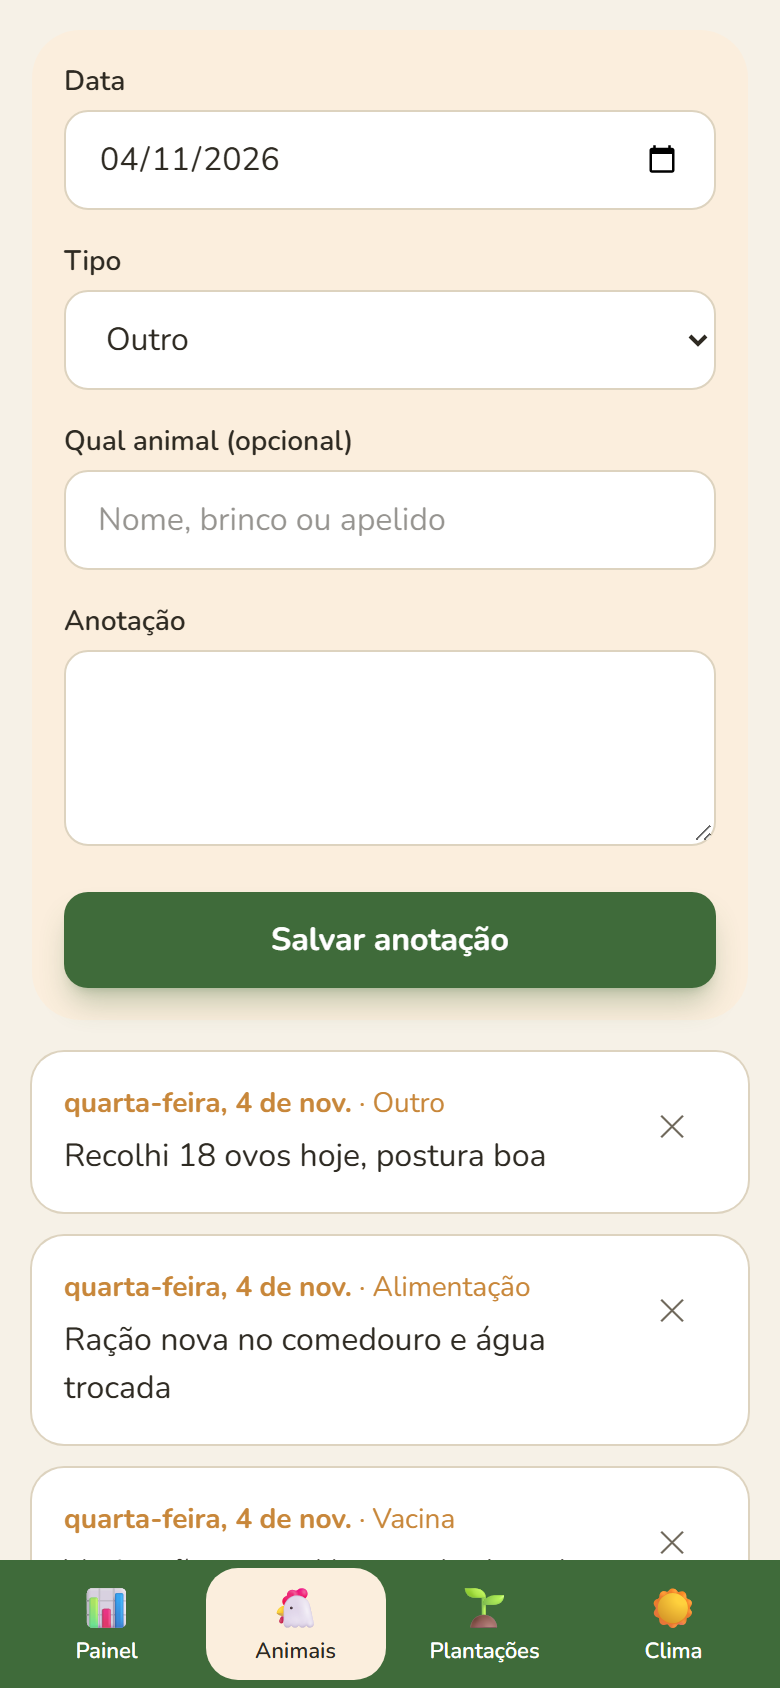
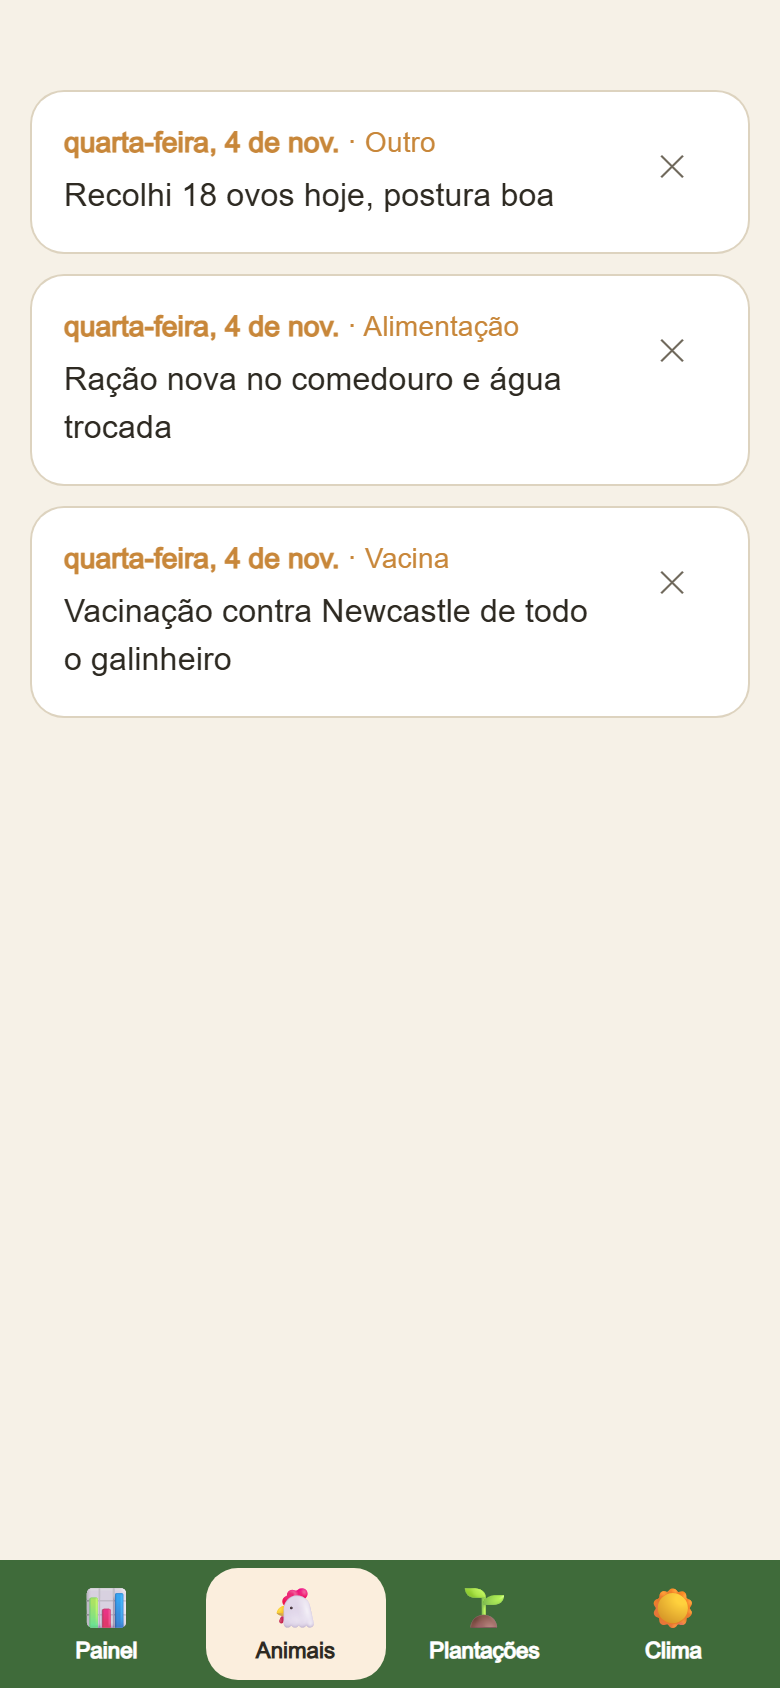
fix: landing com celular e navegador realistas, prints sem erro nem cartão cortado e notas do diário em inglês no EN

diff --git a/tests/screenshots/capture.spec.ts b/tests/screenshots/capture.spec.ts
@@ -1,4 +1,4 @@
-import { test, type Browser } from "@playwright/test";
+import { expect, test, type Browser, type Page } from "@playwright/test";
 import { createAccount, subscribeFake } from "../e2e/helpers";
 
 const cookie = (name: string, value: string) => ({ name, value, domain: "localhost", path: "/", expires: -1, httpOnly: false, secure: false, sameSite: "Lax" as const });
@@ -8,34 +8,69 @@ const DEVICES = {
   mobile: { viewport: { width: 390, height: 844 }, deviceScaleFactor: 2, isMobile: true, hasTouch: true },
 };
 
-// Fora dos prints: aviso de conexão, pedido de confirmar e-mail e o selo de erros do modo de desenvolvimento.
-const HIDE = "[data-testid=offline-status],[data-testid=verify-banner],nextjs-portal{display:none !important}";
+// Fora dos prints: aviso de conexão, pedido de confirmar e-mail (o selo do modo de desenvolvimento some com devIndicators: false).
+const HIDE = "[data-testid=offline-status],[data-testid=verify-banner]{display:none !important}";
 
-async function shoot(browser: Browser, state: Awaited<ReturnType<import("@playwright/test").BrowserContext["storageState"]>>, lang: "pt" | "en", device: keyof typeof DEVICES) {
+/** Qualquer erro de página ou do console derruba a execução: nada de erro escondido atrás dos prints. */
+function failOnErrors(page: Page, errors: string[]) {
+  page.on("pageerror", (e) => errors.push(`pageerror: ${e.message}`));
+  // "Failed to load resource" não diz qual; a resposta com status de erro diz (e o 404 do compilador do dev é refeito em gotoOk).
+  page.on("console", (m) => m.type() === "error" && !m.text().startsWith("Failed to load resource") && errors.push(`console: ${m.text()}`));
+  page.on("response", (r) => r.status() >= 400 && !r.request().isNavigationRequest() && errors.push(`${r.status()} ${r.url()}`));
+}
+
+/** O servidor de desenvolvimento às vezes responde 404 enquanto compila a rota; recarrega até a página de verdade aparecer. */
+async function gotoOk(page: Page, path: string) {
+  for (let i = 0; i < 4; i++) {
+    const res = await page.goto(path);
+    if (res?.status() === 200) return;
+    await page.waitForTimeout(3000);
+  }
+  throw new Error(`${path} não abriu`);
+}
+
+// A moldura do celular desenha a barra de status por cima; sem esse respiro o conteúdo ficaria sob a ilha.
+// A faixa fixa imita o fundo da barra de status (o conteúdo rolado some sob ela); os cartões do fim do Painel saem, para o print terminar inteiro acima da barra de baixo.
+const MOBILE_TOP = "body{padding-top:38px !important}body::before{content:'';position:fixed;top:0;left:0;right:0;height:38px;background:var(--bg);z-index:60}body::after{content:'';display:block;height:700px}[data-testid=season-tip],[data-testid=diary-recent]{display:none !important}";
+
+// Os 5 cartões do Clima não cabem inteiros acima da barra de baixo; um pouco menor, cabem.
+const WEATHER_FIT = "main{zoom:.82}";
+
+async function shoot(browser: Browser, errors: string[], state: Awaited<ReturnType<import("@playwright/test").BrowserContext["storageState"]>>, lang: "pt" | "en", device: keyof typeof DEVICES) {
   const cookies = [...state.cookies.filter((c) => c.name !== "nf_locale"), cookie("nf_locale", lang), cookie("nf_consent", "essential")];
   const ctx = await browser.newContext({ ...DEVICES[device], storageState: { cookies, origins: [] } });
   const page = await ctx.newPage();
+  failOnErrors(page, errors);
   const pages: [string, string][] = [["dashboard", "/dashboard"], ["animal", "/animals/chickens?tab=diary"], ["weather", "/weather"]];
   for (const [name, path] of pages) {
-    await page.goto(path);
-    await page.addStyleTag({ content: HIDE });
+    await gotoOk(page, path);
+    await page.addStyleTag({ content: HIDE + (device === "mobile" ? MOBILE_TOP : "") + (device === "mobile" && name === "weather" ? WEATHER_FIT : "") });
     await page.waitForLoadState("networkidle");
-    // No diário as anotações ficam abaixo do formulário: rola até elas, para o print mostrar o que foi escrito.
-    if (name === "animal") await page.getByTestId("diary-entry").first().evaluate((el) => { el.scrollIntoView({ block: "start" }); window.scrollBy(0, -90); });
-    await page.screenshot({ path: `public/screenshots/${lang}-${name}-${device}.png` });
+    // Rola até o que importa, para nenhum cartão sair cortado pela barra de baixo.
+    const focus = name === "animal" ? page.getByTestId("diary-entry").first() : device !== "mobile" ? null : name === "dashboard" ? page.getByTestId("animal-tile-chickens") : name === "weather" ? page.locator("h2").first() : null;
+    await focus?.evaluate((el, dy) => { el.scrollIntoView({ block: "start" }); window.scrollBy(0, dy); }, device === "mobile" ? -46 : -20);
+    await page.screenshot({ caret: "initial", path: `public/screenshots/${lang}-${name}-${device}.png` });
   }
   if (lang === "en" && device === "desktop") {
     await page.setViewportSize({ width: 1200, height: 630 });
-    await page.goto("/dashboard");
-    await page.addStyleTag({ content: HIDE });
+    await gotoOk(page, "/dashboard");
+    // Só o clima e os animais, inteiros: o resto do Painel sairia cortado nos 630 px.
+    await page.addStyleTag({ content: HIDE + "[data-testid=crop-chips],[data-testid=season-tip],[data-testid=diary-recent]{display:none !important}" });
     await page.waitForLoadState("networkidle");
-    await page.screenshot({ path: "src/app/opengraph-image.png" });
+    await page.screenshot({ caret: "initial", path: "src/app/opengraph-image.png" });
   }
   await ctx.close();
 }
 
-test("prints do sistema com a conta de demonstração", async ({ page, browser }) => {
-  await createAccount(page, "maria@exemplo.com", "Fundão", undefined, "Maria");
+type Notes = [string, string][];
+const NOTES: Record<"pt" | "en", Notes> = {
+  pt: [["Vacina", "Vacinação contra Newcastle de todo o galinheiro"], ["Alimentação", "Ração nova no comedouro e água trocada"], ["Outro", "Recolhi 18 ovos hoje, postura boa"]],
+  en: [["Vacina", "Newcastle vaccine for the whole coop"], ["Alimentação", "New feed in the trough and fresh water"], ["Outro", "Collected 18 eggs today, good laying"]],
+};
+
+/** Cria a conta de demonstração pela tela (em português, como os helpers) com as anotações no idioma pedido. */
+async function demoAccount(page: Page, email: string, notes: Notes) {
+  await createAccount(page, email, "Fundão", undefined, "Maria");
   for (const [label, id, n] of [["Galinhas", "chickens", "24"], ["Cabras", "goats", "6"], ["Vacas", "cows", "3"]]) {
     await page.getByLabel(label).check();
     await page.locator(`#count-${id}`).fill(n);
@@ -45,18 +80,26 @@ test("prints do sistema com a conta de demonstração", async ({ page, browser }
   await subscribeFake(page);
 
   await page.goto("/animals/chickens?tab=diary");
-  const notes: [string, string][] = [
-    ["Vacina", "Vacinação contra Newcastle de todo o galinheiro"],
-    ["Alimentação", "Ração nova no comedouro e água trocada"],
-    ["Outro", "Recolhi 18 ovos hoje, postura boa"],
-  ];
   for (const [i, [type, text]] of notes.entries()) {
     await page.getByLabel("Tipo").selectOption({ label: type });
     await page.getByLabel("Anotação", { exact: true }).fill(text);
     await page.getByRole("button", { name: "Salvar anotação" }).click();
     await page.getByTestId("diary-entry").nth(i).waitFor();
   }
+  return page.context().storageState();
+}
 
-  const state = await page.context().storageState();
-  for (const lang of ["pt", "en"] as const) for (const device of ["desktop", "mobile"] as const) await shoot(browser, state, lang, device);
+test("prints do sistema com a conta de demonstração", async ({ page, browser }) => {
+  const errors: string[] = [];
+  failOnErrors(page, errors);
+  // Uma conta por idioma, para as anotações do diário aparecerem no idioma do print.
+  const ptState = await demoAccount(page, "maria@exemplo.com", NOTES.pt);
+  await page.context().clearCookies();
+  await page.context().addCookies([cookie("nf_locale", "pt"), cookie("nf_consent", "essential")]);
+  const enState = await demoAccount(page, "maria.en@exemplo.com", NOTES.en);
+
+  for (const [lang, state] of [["pt", ptState], ["en", enState]] as const) {
+    for (const device of ["desktop", "mobile"] as const) await shoot(browser, errors, state, lang, device);
+  }
+  expect(errors, "erros no navegador durante os prints").toEqual([]);
 });

diff --git a/src/app/(marketing)/page.tsx b/src/app/(marketing)/page.tsx
@@ -5,6 +5,7 @@ import { headers } from "next/headers";
 import { redirect } from "next/navigation";
 import { getLocale, getTranslations } from "next-intl/server";
 import { BrowserFrame } from "@/components/BrowserFrame";
+import { FloatingCard, VerifiedSeal } from "@/components/DeviceExtras";
 import { PhoneFrame } from "@/components/PhoneFrame";
 import { ShowcaseToggle } from "@/components/ShowcaseToggle";
 import { resolveLocale } from "@/i18n/locales";
@@ -34,6 +35,7 @@ export default async function HomePage() {
   const currency = currencyForCountry((await headers()).get("x-vercel-ip-country"));
   const price = formatPrice(currency, locale);
   const img = (name: string, device: "desktop" | "mobile") => `/screenshots/${locale}-${name}-${device}.png`;
+  const card = (k: "weather" | "diary" | "count") => ({ icon: t(`cards.${k}.icon`), title: t(`cards.${k}.title`), text: t(`cards.${k}.text`) });
   const cta = (
     <Link href="/register" className={`${btn} bg-primary text-primary-text transition-opacity hover:opacity-90 motion-reduce:transition-none`}>
       {t("ctaPrice", { price })}
@@ -71,7 +73,7 @@ export default async function HomePage() {
       <section className="relative overflow-hidden px-5 py-12 md:px-8 md:py-20">
         <div aria-hidden className="absolute inset-0 bg-[url('/landscape.svg')] bg-cover bg-bottom dark:brightness-[.55]" />
         <div className="relative mx-auto grid max-w-6xl items-center gap-10 md:grid-cols-2">
-          <div className="rounded-3xl bg-bg/85 p-6 backdrop-blur md:p-8">
+          <div className="min-w-0 rounded-3xl bg-bg/85 p-6 backdrop-blur md:p-8">
             <h1 className="font-display text-4xl font-bold text-primary md:text-5xl">{t("heroTitle")}</h1>
             <p className="mt-4 text-lg text-muted">{t("heroSub")}</p>
             <div className="mt-8 flex flex-wrap items-center gap-3">
@@ -79,13 +81,19 @@ export default async function HomePage() {
               <Link href="/login" className={`${btn} text-text ring-1 ring-border hover:bg-soft`}>{t("login")}</Link>
             </div>
           </div>
-          <div className="relative md:pb-10">
+          <div className="relative min-w-0 md:pb-10 md:pr-6">
             <BrowserFrame>
               <Image src={img("dashboard", "desktop")} alt={t("heroAlt")} width={1440} height={900} sizes="(min-width: 1152px) 560px, (min-width: 768px) 45vw, 90vw" className="h-auto w-full" priority />
             </BrowserFrame>
-            <PhoneFrame className="mx-auto mt-6 w-36 md:absolute md:-right-4 md:bottom-0 md:mt-0 md:w-32 lg:w-36">
-              <Image src={img("dashboard", "mobile")} alt={t("heroPhoneAlt")} width={780} height={1688} sizes="144px" className="h-auto w-full" />
-            </PhoneFrame>
+            <FloatingCard {...card("weather")} className="-left-3 top-1/3 md:-left-8" />
+            <FloatingCard {...card("diary")} className="-top-4 right-4 md:right-24" />
+            <FloatingCard {...card("count")} className="-bottom-3 left-4 md:-left-4 md:bottom-4" />
+            <div className="relative mx-auto mt-6 w-40 md:absolute md:bottom-0 md:right-0 md:mt-0 md:w-36 lg:w-40">
+              <VerifiedSeal className="-left-5 -top-3 hidden sm:block" />
+              <PhoneFrame tilt>
+                <Image src={img("dashboard", "mobile")} alt={t("heroPhoneAlt")} width={780} height={1688} sizes="160px" className="h-auto w-full" />
+              </PhoneFrame>
+            </div>
           </div>
         </div>
       </section>
@@ -107,7 +115,7 @@ export default async function HomePage() {
         <h2 className="text-center font-display text-3xl font-bold">{t("insideTitle")}</h2>
         <ShowcaseToggle
           labels={{ desktop: t("desktop"), mobile: t("mobile") }}
-          shots={SHOTS.map((k) => ({ name: k, src: { desktop: img(k, "desktop"), mobile: img(k, "mobile") }, alt: t(`alts.${k}`), caption: t(`shots.${k}`) }))}
+          shots={SHOTS.map((k) => ({ name: k, card: card(k === "dashboard" ? "count" : k === "animal" ? "diary" : "weather"), path: k === "dashboard" ? "/dashboard" : k === "animal" ? "/animals/chickens" : "/weather", src: { desktop: img(k, "desktop"), mobile: img(k, "mobile") }, alt: t(`alts.${k}`), caption: t(`shots.${k}`) }))}
         />
       </section>
 

diff --git a/src/components/PhoneFrame.tsx b/src/components/PhoneFrame.tsx
@@ -1,4 +1,28 @@
-/** Contorno de celular só com CSS, para emoldurar os prints da tela pequena. */
-export function PhoneFrame({ children, className = "" }: { children: React.ReactNode; className?: string }) {
-  return <div className={`overflow-hidden rounded-[2rem] border-[6px] border-text bg-surface shadow-xl ${className}`}>{children}</div>;
+/** Celular realista só com CSS: moldura escura, ilha, botões laterais e barra de status. A tela é o `children` (o print). */
+export function PhoneFrame({ children, className = "", tilt = false }: { children: React.ReactNode; className?: string; tilt?: boolean }) {
+  return (
+    <div className={`relative ${tilt ? "md:[transform:perspective(1600px)_rotateY(-12deg)_rotateX(4deg)]" : ""} ${className}`}>
+      <div className="rounded-[2.75rem] bg-gradient-to-br from-zinc-500 via-zinc-900 to-zinc-700 p-[3px] shadow-2xl shadow-black/40">
+        <div className="rounded-[2.65rem] bg-zinc-950 p-[7px]">
+          <div className="relative overflow-hidden rounded-[2.2rem] bg-black [container-type:inline-size]">
+            {children}
+            <div aria-hidden>
+              <div className="absolute left-1/2 top-[2.5cqw] h-[7cqw] w-[26cqw] -translate-x-1/2 rounded-full bg-black" />
+              <div className="absolute inset-x-0 top-0 flex items-center justify-between px-[9cqw] pt-[2.5cqw] text-[4cqw] font-bold leading-[7cqw] text-zinc-900">
+                <span>9:41</span>
+                <span className="flex items-center gap-[1.5cqw]">
+                  <svg viewBox="0 0 18 12" className="h-[3.4cqw]" fill="currentColor"><rect x="0" y="8" width="3" height="4" rx="1" /><rect x="5" y="5" width="3" height="7" rx="1" /><rect x="10" y="2.5" width="3" height="9.5" rx="1" /><rect x="15" y="0" width="3" height="12" rx="1" /></svg>
+                  <svg viewBox="0 0 16 12" className="h-[3.4cqw]" fill="none" stroke="currentColor" strokeWidth="1.8" strokeLinecap="round"><path d="M1 4.2a10 10 0 0 1 14 0M3.6 7a6.3 6.3 0 0 1 8.8 0" /><circle cx="8" cy="10.2" r="1.1" fill="currentColor" stroke="none" /></svg>
+                  <svg viewBox="0 0 27 12" className="h-[3.4cqw]" fill="none"><rect x="0.5" y="0.5" width="22" height="11" rx="3.2" stroke="currentColor" opacity=".45" /><rect x="2" y="2" width="19" height="8" rx="2" fill="currentColor" /><rect x="24" y="4" width="2" height="4" rx="1" fill="currentColor" opacity=".45" /></svg>
+                </span>
+              </div>
+            </div>
+          </div>
+        </div>
+      </div>
+      <span aria-hidden className="absolute -left-[2px] top-[17%] h-[5%] w-[3px] rounded-l bg-zinc-700" />
+      <span aria-hidden className="absolute -left-[2px] top-[25%] h-[9%] w-[3px] rounded-l bg-zinc-700" />
+      <span aria-hidden className="absolute -right-[2px] top-[27%] h-[13%] w-[3px] rounded-r bg-zinc-700" />
+    </div>
+  );
 }

diff --git a/src/components/ShowcaseToggle.tsx b/src/components/ShowcaseToggle.tsx
@@ -2,9 +2,10 @@
 import Image from "next/image";
 import { useState } from "react";
 import { BrowserFrame } from "./BrowserFrame";
+import { FloatingCard, VerifiedSeal } from "./DeviceExtras";
 import { PhoneFrame } from "./PhoneFrame";
 
-type Shot = { name: string; src: { desktop: string; mobile: string }; alt: string; caption: string };
+type Shot = { name: string; path: string; card: { icon: string; title: string; text: string }; src: { desktop: string; mobile: string }; alt: string; caption: string };
 
 /** Alterna os 3 prints entre computador e celular. */
 export function ShowcaseToggle({ shots, labels }: { shots: Shot[]; labels: { desktop: string; mobile: string } }) {
@@ -24,19 +25,21 @@ export function ShowcaseToggle({ shots, labels }: { shots: Shot[]; labels: { des
       <div className="mt-6 flex justify-center">
         <div className="inline-flex gap-1 rounded-full bg-surface p-1 ring-1 ring-border">{button("desktop")}{button("mobile")}</div>
       </div>
-      <ul className={`mt-8 grid gap-8 ${mode === "desktop" ? "grid-cols-1 lg:grid-cols-3" : "grid-cols-1 sm:grid-cols-3"}`}>
+      <ul className={`mt-8 grid gap-8 ${mode === "desktop" ? "grid-cols-[minmax(0,1fr)] lg:grid-cols-3" : "grid-cols-[minmax(0,1fr)] sm:grid-cols-3"}`}>
         {shots.map((s) => (
-          <li key={s.name} data-testid="showcase-item" className="flex flex-col items-center">
+          <li key={s.name} data-testid="showcase-item" className="relative flex min-w-0 flex-col">
             {mode === "desktop" ? (
-              <BrowserFrame>
+              <BrowserFrame path={s.path}>
                 <Image src={s.src.desktop} alt={s.alt} width={1440} height={900} sizes="(min-width: 1024px) 380px, 90vw" className="h-auto w-full" />
               </BrowserFrame>
             ) : (
-              <PhoneFrame className="w-48">
-                <Image src={s.src.mobile} alt={s.alt} width={780} height={1688} sizes="192px" className="h-auto w-full" />
+              <PhoneFrame className="mx-auto w-full max-w-48" tilt>
+                <Image src={s.src.mobile} alt={s.alt} width={780} height={1688} sizes="(min-width: 640px) 20vw, 192px" className="h-auto w-full" />
               </PhoneFrame>
             )}
-            <p className="mt-3 text-center text-sm font-semibold text-muted">{s.caption}</p>
+            <FloatingCard {...s.card} className={mode === "desktop" ? "-right-2 -bottom-3 w-40" : "-right-8 bottom-24 w-36"} />
+            {mode === "mobile" && s.name === "dashboard" && <VerifiedSeal className="-left-3 top-2 hidden sm:block" />}
+            <p className="mt-10 text-center text-sm font-semibold text-muted">{s.caption}</p>
           </li>
         ))}
       </ul>

diff --git a/src/components/BrowserFrame.tsx b/src/components/BrowserFrame.tsx
@@ -1,12 +1,18 @@
-/** Janela de navegador falsa só com CSS, para emoldurar os prints do computador. */
-export function BrowserFrame({ children }: { children: React.ReactNode }) {
+/** Janela de navegador realista só com CSS: pontos, setas, barra de endereço com cadeado e sombra grande. */
+export function BrowserFrame({ children, path = "/dashboard" }: { children: React.ReactNode; path?: string }) {
   return (
-    <div className="overflow-hidden rounded-2xl bg-surface shadow-xl ring-1 ring-border">
-      <div aria-hidden className="flex items-center gap-1.5 border-b border-border bg-soft px-4 py-2.5">
-        <span className="size-2.5 rounded-full bg-danger/70" />
-        <span className="size-2.5 rounded-full bg-accent/70" />
-        <span className="size-2.5 rounded-full bg-primary/70" />
-        <span className="ml-3 h-4 flex-1 rounded-full bg-bg" />
+    <div className="overflow-hidden rounded-2xl bg-surface shadow-2xl shadow-black/25 ring-1 ring-border">
+      <div aria-hidden className="flex items-center gap-3 border-b border-border bg-soft px-4 py-2.5">
+        <span className="flex gap-1.5">
+          <span className="size-2.5 rounded-full bg-danger/70" />
+          <span className="size-2.5 rounded-full bg-accent/70" />
+          <span className="size-2.5 rounded-full bg-primary/70" />
+        </span>
+        <span className="hidden gap-2 text-sm text-muted sm:flex"><span>←</span><span className="opacity-50">→</span></span>
+        <span className="flex min-w-0 flex-1 items-center gap-1.5 rounded-full bg-bg px-3 py-1 text-xs text-muted">
+          <svg viewBox="0 0 12 12" className="size-3 shrink-0" fill="currentColor"><path d="M3 5V4a3 3 0 0 1 6 0v1h.5A1.5 1.5 0 0 1 11 6.5v4A1.5 1.5 0 0 1 9.5 12h-7A1.5 1.5 0 0 1 1 10.5v-4A1.5 1.5 0 0 1 2.5 5zm1.5 0h3V4a1.5 1.5 0 0 0-3 0z" /></svg>
+          <span className="truncate">newfarmer.vercel.app{path}</span>
+        </span>
       </div>
       {children}
     </div>

diff --git a/src/components/DeviceExtras.tsx b/src/components/DeviceExtras.tsx
@@ -1,0 +1,22 @@
+/** Cartão branco flutuante com um detalhe do sistema. Só enfeite: repete o que já está no print. */
+export function FloatingCard({ icon, title, text, className = "" }: { icon: string; title: string; text: string; className?: string }) {
+  return (
+    <div aria-hidden className={`absolute z-10 hidden w-44 items-center gap-3 rounded-[20px] bg-surface p-3 shadow-xl shadow-black/20 ring-1 ring-border sm:flex ${className}`}>
+      <span className="text-2xl">{icon}</span>
+      <span className="min-w-0 text-left text-xs leading-snug text-muted">
+        <b className="block text-sm text-text">{title}</b>
+        {text}
+      </span>
+    </div>
+  );
+}
+
+/** Selo de verificado (estrela de pontas arredondadas) na cor da marca. */
+export function VerifiedSeal({ className = "" }: { className?: string }) {
+  return (
+    <svg aria-hidden viewBox="0 0 48 48" className={`absolute z-10 size-12 drop-shadow-lg ${className}`}>
+      <path className="fill-primary" d="M24 2l5.2 3.4 6.2-.2 2.6 5.6 5.6 2.6-.2 6.2L46 24l-3.4 5.2.2 6.2-5.6 2.6-2.6 5.6-6.2-.2L24 46l-5.2-3.4-6.2.2-2.6-5.6-5.6-2.6.2-6.2L2 24l3.4-5.2-.2-6.2 5.6-2.6 2.6-5.6 6.2.2z" />
+      <path d="M15 24.5l6 6 12-13" fill="none" className="stroke-primary-text" strokeWidth="4.5" strokeLinecap="round" strokeLinejoin="round" />
+    </svg>
+  );
+}

diff --git a/playwright.screenshots.config.ts b/playwright.screenshots.config.ts
@@ -3,7 +3,7 @@ import { defineConfig } from "@playwright/test";
 // Porta e banco próprios: não colide com a suíte e2e (3100, data/e2e-pglite).
 export default defineConfig({
   testDir: "tests/screenshots",
-  timeout: 240_000,
+  timeout: 540_000,
   workers: 1,
   expect: { timeout: 15_000 },
   use: {
